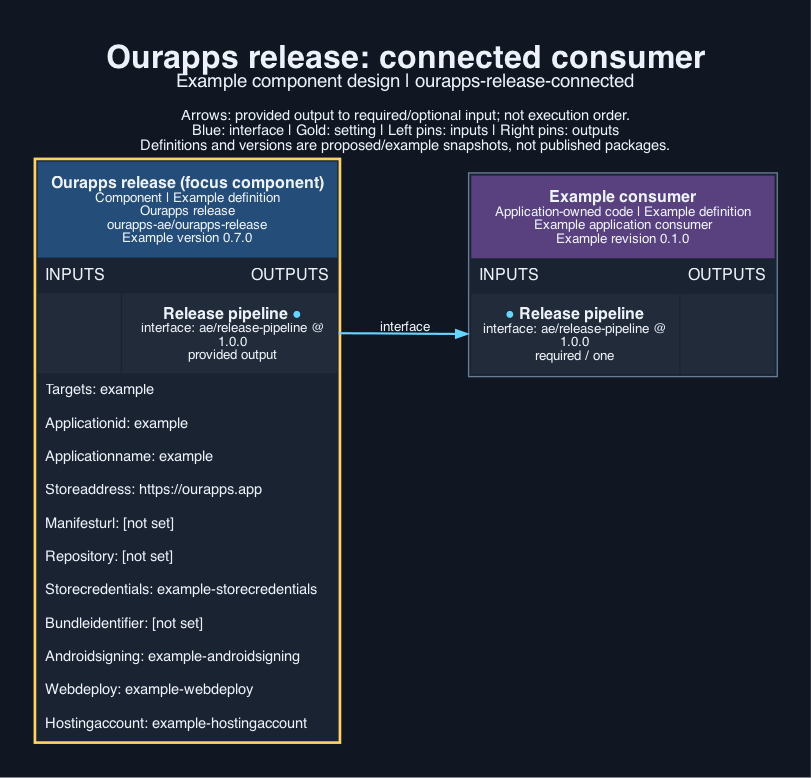
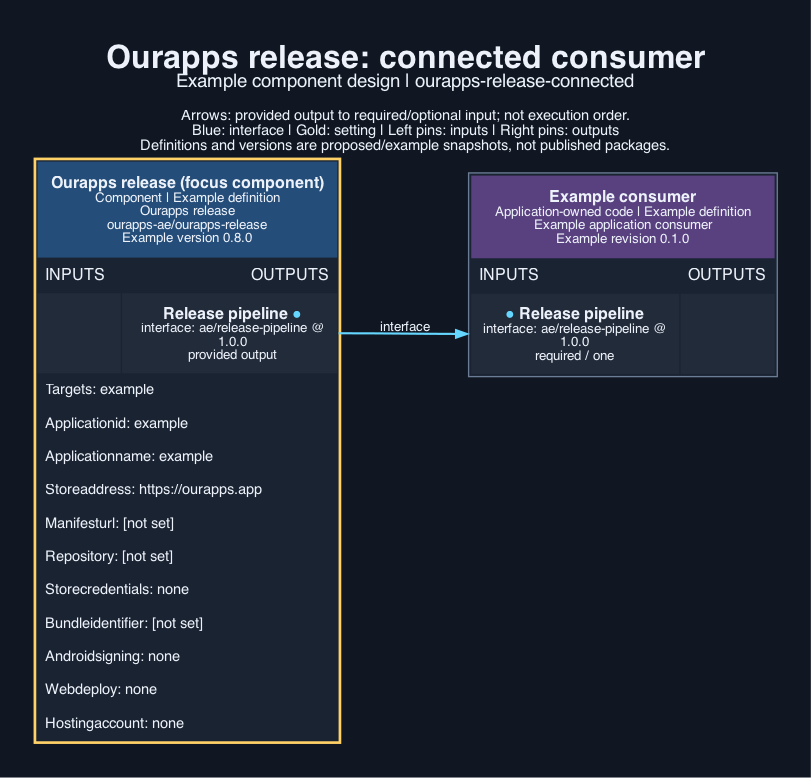
ourapps-release 0.8.0: aepm-update answers input and optional push token, apple-builds on xcode-27, local servers stopped after checks

Changed region(s): [[0.1541, 0.8329, 0.3699, 0.8946], [0.185, 0.7404, 0.4007, 0.7712], [0.185, 0.9254, 0.3699, 0.9563]]

diff --git a/tests/release.test.ts b/tests/release.test.ts
@@ -324,6 +324,7 @@ test("with a server folder ci-web plays the application's browser check against 
   assert.match(web, /VITE_SERVER=http:\/\/127\.0\.0\.1:8788 npx vite build/);
   assert.match(web, /if: hashFiles\('web\/test\/browser\.mjs'\) != ''/);
   assert.match(web, /node test\/browser\.mjs/);
+  assert.match(web, /lsof -t -sTCP:LISTEN -i tcp:8788 -i tcp:5173/);
   assert.doesNotMatch(renderRelease(webOnly).files[".github/workflows/ci-web.yml"], /node test\/browser\.mjs|npm start/);
 });
 
@@ -343,6 +344,7 @@ test("apple-builds builds unsigned for each Apple target only, on a tag or by ha
   const apple = maintained(".github/workflows/apple-builds.yml");
   assert.match(apple, /tags: \["v\*"\]/);
   assert.match(apple, /xcode-version: "27"/);
+  assert.match(apple, /runs-on: xcode-27/);
   assert.match(apple, /-scheme "DemoApp" -destination 'generic\/platform=iOS Simulator'/);
   assert.match(apple, /variant=Mac Catalyst/);
   assert.match(apple, /-scheme "DemoAppTV" -destination 'generic\/platform=tvOS Simulator'/);
@@ -362,6 +364,9 @@ test("aepm-update proposes weekly and applies a merged proposal with the owner k
   assert.match(update, /AEPM_OWNER_KEY: \$\{\{ secrets\.AEPM_OWNER_KEY \}\}/);
   assert.match(update, /aepm_update\.py apply/);
   assert.match(update, /AEPM_FROM: "https:\/\/ourapps\.app"/);
+  assert.match(update, /token: \$\{\{ secrets\.AEPM_PUSH_TOKEN \|\| github\.token \}\}/);
+  assert.match(update, /--answers "\$ANSWERS"/);
+  assert.match(update, /BRANCH: \$\{\{ steps\.update\.outputs\.branch \}\}/);
   assert.ok(maintenance.notes.some((note) => note.includes("AEPM_OWNER_KEY")));
 });
 
@@ -373,7 +378,10 @@ test("rendered workflows pass actionlint when it is installed", () => {
   buildPipeline(directory, all, options);
   writeRelease(directory, renderMaintenance(all, options));
   const workflows = join(directory, ".github/workflows");
-  const lint = spawnSync("actionlint", ["-shellcheck=", "-pyflakes=", ...readdirSync(workflows).map((name) => join(workflows, name))], { encoding: "utf8" });
+  // xcode-27 is a GitHub-hosted image label that actionlint does not list.
+  const config = join(directory, "actionlint.yaml");
+  writeFileSync(config, "self-hosted-runner:\n  labels:\n    - xcode-27\n");
+  const lint = spawnSync("actionlint", ["-config-file", config, "-shellcheck=", "-pyflakes=", ...readdirSync(workflows).map((name) => join(workflows, name))], { encoding: "utf8" });
   assert.equal(lint.status, 0, lint.stdout + lint.stderr);
 });
 

diff --git a/implementation/server/render.ts b/implementation/server/render.ts
@@ -68,6 +68,8 @@ export interface ReleaseOptions {
   // The Xcode major version apple-builds.yml selects (default 27), the generated project (default <appleScheme>.xcodeproj),
   // the iPhone, iPad and Mac scheme (default: the product name without spaces or dashes) and the Apple TV scheme (default <appleScheme>TV).
   xcodeVersion?: string;
+  // The runner apple-builds.yml uses (default xcode-27, GitHub's Xcode 27 image).
+  appleBuildRunner?: string;
   appleProject?: string;
   appleScheme?: string;
   appleTvScheme?: string;
@@ -270,6 +272,8 @@ function render(settings: ReleaseSettings, options: ReleaseOptions): RenderResul
   for (const [name, value] of [["macosMinimum", options.macosMinimum ?? "14.0"], ["tvosMinimum", options.tvosMinimum ?? "17.0"]] as const) if (!VERSION.test(value)) throw new SettingsError(`${name} must be a version number`);
 
   const xcode = options.xcodeVersion ?? "27";
+  const appleBuildRunner = options.appleBuildRunner ?? "xcode-27";
+  if (!RUNNER.test(appleBuildRunner)) throw new SettingsError("appleBuildRunner must be a runner label");
   if (!VERSION.test(xcode)) throw new SettingsError("xcodeVersion must be a version number");
   const appleScheme = options.appleScheme ?? productName.replace(/[ -]/g, "");
   const appleTvScheme = options.appleTvScheme ?? appleScheme + "TV";
@@ -298,7 +302,7 @@ function render(settings: ReleaseSettings, options: ReleaseOptions): RenderResul
     cfToken: `${cloudflare}_API_TOKEN`, cfAccount: `${cloudflare}_ACCOUNT_ID`,
     signingPrefix: prefix, bundleId: resolved.bundleIdentifier ?? "", productName,
     webDir: o.web, androidDir: o.android, desktopDir: o.desktop, appleDir: o.apple, appleHelpers: o.appleHelpers, serverDir: server ?? "", fixturesDir: o.fixtures,
-    node, java, wrangler, macRunner, windowsRunner, xcode, appleProject, appleScheme, appleTvScheme, androidCheckArgs: androidCheck, icon: o.icon, screenshots: o.screenshots, ipadScreenshots: o.ipad, changelog: o.changelog,
+    node, java, wrangler, macRunner, windowsRunner, xcode, appleBuildRunner, appleProject, appleScheme, appleTvScheme, androidCheckArgs: androidCheck, icon: o.icon, screenshots: o.screenshots, ipadScreenshots: o.ipad, changelog: o.changelog,
     needs: ["version", ...built, ...(built.includes("ios") ? ["testflight"] : [])].join(", "),
     anyOn: built.map((target) => `needs.version.outputs.${target} == 'true'`).join(" || ") || "false",
     webUrlExpression: has("web") ? "${{ needs.web.outputs.url }}" : "",

diff --git a/implementation/server/scripts/aepm_update.py b/implementation/server/scripts/aepm_update.py
@@ -4,7 +4,8 @@
   python3 components/ourapps-release/server/scripts/aepm_update.py propose --aepm AEPM --work WORK
       Designs the newest recipe version with the answers and substitutions in .aepm/definition.json, proposes the update
       (aepm runs the packages' checks on the staged tree) and writes .aepm/update/definition.json and summary.md for review.
-      Writes nothing when the recipe is already at its newest version.
+      --answers JSON (an object) changes recorded answers for the proposal, so a design change can be proposed at the
+      installed version. Writes nothing when the version and the answers are both unchanged.
   python3 components/ourapps-release/server/scripts/aepm_update.py apply --aepm AEPM --work WORK --owner-key KEY
       Proposes .aepm/update/definition.json again, approves it with the owner's private key and applies it, then removes
       .aepm/update/.
@@ -14,6 +15,7 @@ policy trusts Level N's release and guardian keys (https://ourapps.app/policy/le
 a key made for the run), and the exact packages of the design for running their checks. Needs Python 3.12, Node and git.
 """
 import argparse
+import hashlib
 import json
 import os
 from pathlib import Path
@@ -95,13 +97,14 @@ def restore(root, work, owner):
     return store
 
 
-def design(root, work, store, definition, version):
-    """The definition of the recipe at version with the current answers and substitutions."""
-    write(work / "answers.json", definition.get("answers") or {})
+def design(root, work, store, definition, version, answers):
+    """The definition of the recipe at version with the given answers and the current substitutions."""
+    write(work / "answers.json", answers)
     recipe = definition["recipe"]["name"]
     substitutes = [f"{slot}={selection['component']}@{selection['version']}"
                    for slot, selection in sorted((definition.get("selections") or {}).items()) if selection.get("reason") == "substituted"]
-    aepm(["fetch", f"{recipe}@{version}", "--with-dependencies", "--store", str(store), "--from", STORE_ADDRESS], root)
+    if version != definition["recipe"]["version"]:
+        aepm(["fetch", f"{recipe}@{version}", "--with-dependencies", "--store", str(store), "--from", STORE_ADDRESS], root)
     command = ["design", f"{recipe}@{version}", "--store", str(store), "--answers", str(work / "answers.json"), "--out", str(work / "next.json")]
     for substitute in substitutes:
         command += ["--substitute", substitute]
@@ -134,19 +137,27 @@ def command_propose(arguments, root, work):
     current = read(RECORDS / "definition.json")
     name, installed = current["recipe"]["name"], current["recipe"]["version"]
     version = arguments.version or newest(name)
-    if version == installed:
+    recorded = current.get("answers") or {}
+    changes = json.loads(arguments.answers) if arguments.answers else {}
+    if not isinstance(changes, dict):
+        sys.exit("--answers must be a JSON object")
+    answers = {**recorded, **changes}
+    changed = sorted(key for key in answers if recorded.get(key) != answers[key])
+    if version == installed and not changed:
         output("version", "")
-        print(f"{name} {installed} is the newest version", file=sys.stderr)
+        print(f"{name} {installed} is the newest version and no answer changes", file=sys.stderr)
         return
     # Nothing is approved here, so a key made for this run stands in for the owner's.
     owner = [{"publicKey": disposable_key()}]
     store = restore(root, work, owner)
-    next_definition = design(root, work, store, current, version)
+    next_definition = design(root, work, store, current, version, answers)
     _, lock = propose(root, work, store, next_definition, owner)
     before = {entry["name"]: entry["version"] for entry in read(RECORDS / "lock.json")["packages"]}
     after = {entry["name"]: entry["version"] for entry in read(lock)["packages"]}
-    lines = [f"# {name} {installed} to {version}", "", "aepm staged the update and ran the packages' checks on it.", "",
-             "| Package | Installed | Proposed |", "|---|---|---|"]
+    lines = [f"# {name} {installed} to {version}", "", "aepm staged the update and ran the packages' checks on it.", ""]
+    if changed:
+        lines += ["Answers changed: " + ", ".join(f"`{key}` {json.dumps(recorded.get(key))} to {json.dumps(answers[key])}" for key in changed), ""]
+    lines += ["| Package | Installed | Proposed |", "|---|---|---|"]
     for package in sorted(set(before) | set(after)):
         if before.get(package) != after.get(package):
             lines.append(f"| {package} | {before.get(package, '-')} | {after.get(package, '-')} |")
@@ -155,11 +166,15 @@ def command_propose(arguments, root, work):
     shutil.copyfile(next_definition, UPDATE / "definition.json")
     (UPDATE / "summary.md").write_text("\n".join(lines) + "\n")
     output("version", version)
+    suffix = "-" + hashlib.sha256(json.dumps({key: answers[key] for key in changed}, sort_keys=True).encode()).hexdigest()[:8] if changed else ""
+    output("branch", f"aepm-update/{version}{suffix}")
 
 
 def command_apply(arguments, root, work):
     if not (UPDATE / "definition.json").is_file():
-        sys.exit("no .aepm/update/definition.json to apply")
+        output("version", "")
+        print("no .aepm/update/definition.json: nothing to apply", file=sys.stderr)
+        return
     owner = [{"publicKey": public_key(arguments.owner_key)}]
     next_definition = work / "next.json"
     shutil.copyfile(UPDATE / "definition.json", next_definition)
@@ -178,6 +193,7 @@ def main():
     parser.add_argument("--aepm", required=True, type=Path)
     parser.add_argument("--work", required=True, type=Path)
     parser.add_argument("--version", help="the recipe version to propose (default: the newest published)")
+    parser.add_argument("--answers", help="a JSON object of answer changes to propose (propose)")
     parser.add_argument("--owner-key", type=Path, help="the owner's private key (apply)")
     arguments = parser.parse_args()
     if not (RECORDS / "definition.json").is_file():

diff --git a/tests/test_release.py b/tests/test_release.py
@@ -199,6 +199,44 @@ class Read(Base):
         self.assertEqual(Store.seen, [])
 
 
+class Update(unittest.TestCase):
+    """aepm_update.py decisions that need no aepm, store or network."""
+
+    def run_update(self, *args):
+        with tempfile.TemporaryDirectory() as directory:
+            app = Path(directory) / "app"
+            (app / ".aepm").mkdir(parents=True)
+            (app / ".aepm/definition.json").write_text(json.dumps({"recipe": {"name": "acme/demo", "version": "1.2.0"}, "answers": {"video": True}}))
+            output = Path(directory) / "output"
+            result = subprocess.run([sys.executable, "-B", str(SCRIPTS / "aepm_update.py"), "propose", "--aepm", directory, "--work", str(Path(directory) / "work"), *args],
+                                    cwd=app, env={**os.environ, "GITHUB_OUTPUT": str(output)}, capture_output=True, text=True)
+            return result, (output.read_text() if output.exists() else ""), (app / ".aepm/update").exists()
+
+    def test_same_version_and_answers_propose_nothing(self):
+        result, output, written = self.run_update("--version", "1.2.0", "--answers", '{"video": true}')
+        self.assertEqual(result.returncode, 0, result.stderr)
+        self.assertEqual(output, "version=\n")
+        self.assertIn("no answer changes", result.stderr)
+        self.assertFalse(written)
+
+    def test_answers_must_be_an_object(self):
+        result, _, written = self.run_update("--version", "1.2.0", "--answers", "[1]")
+        self.assertNotEqual(result.returncode, 0)
+        self.assertIn("JSON object", result.stderr)
+        self.assertFalse(written)
+
+    def test_apply_without_a_proposal_does_nothing(self):
+        with tempfile.TemporaryDirectory() as directory:
+            app = Path(directory) / "app"
+            (app / ".aepm").mkdir(parents=True)
+            (app / ".aepm/definition.json").write_text("{}")
+            output = Path(directory) / "output"
+            result = subprocess.run([sys.executable, "-B", str(SCRIPTS / "aepm_update.py"), "apply", "--aepm", directory, "--work", str(Path(directory) / "work"), "--owner-key", "missing.pem"],
+                                    cwd=app, env={**os.environ, "GITHUB_OUTPUT": str(output)}, capture_output=True, text=True)
+            self.assertEqual(result.returncode, 0, result.stderr)
+            self.assertEqual(output.read_text(), "version=\n")
+
+
 class Merge(unittest.TestCase):
     NEW = {"version": "0.6.0", "install": {
         "pwa": "https://new.example/", "android": {"apk": "https://api.github.com/new/apk"},

diff --git a/CONTRACT.md b/CONTRACT.md
@@ -57,7 +57,7 @@ None.
 ## Integration
 At build time call `renderRelease(settings, options)` from `server/render.ts` and write the result with `writeRelease` into the application repository: `.github/workflows/*.yml`, `scripts/*` and `release/app.json`. The shipped Python scripts install under `components/ourapps-release/server/scripts/` and are what the workflows call. `options` names the application's directories (web, android, desktop, Apple), the Node and Java versions, runners, the icon, screenshots, changelog, extra manifest fields (for example `minPlayers`) and the signing prefix, which must equal the Android and Apple hosts' prefix. `result.notes` lists what the rendered files expect the repository to provide. The web build comes from web-host, the Android project from android-host, the Apple project from apple-host, the Windows package from windows-desktop and the server check from server-host; this component names them only through directories and environment variable prefixes. `examples/consumer.ts` renders a pipeline without a game. At install aepm renders `components/ourapps-release/server/release.json` from the settings (application id and name, targets, store address and the four reference names); in the application's release workflow `release_plan.py` reads it and gives the version, the targets to build and the repository secret name of each reference. aepm places only the recipe's own files outside `components/<name>/`, so a recipe that installs workflows at the application root ships them itself and has them call these scripts; `renderRelease` writes a set from the templates at build time instead.
 
-The check workflows can each be started by hand. With `serverDirectory`, `ci-web.yml` starts the server on the runner, builds the web client against it and runs the application's `test/browser.mjs` in headless Chrome when the web folder has one; with `androidCheck` too, `ci-android.yml` builds the debug app against the runner's server (`http://10.0.2.2:8788`), starts it in an Android 36 emulator (KVM) and runs `android_screen.py` until the given text is on screen. `renderMaintenance(settings, options)` renders two more workflows outside the release pipeline's files: `apple-builds.yml` (unsigned iOS Simulator, Mac Catalyst and tvOS Simulator builds by Apple target, on a version tag or by hand; options `xcodeVersion`, `appleProject`, `appleScheme`, `appleTvScheme`) and `aepm-update.yml`, which weekly runs `aepm_update.py propose` (the newest recipe version designed with the answers and substitutions in `.aepm/definition.json`, proposed with `--trusted --allow-network`, opened as a pull request carrying `.aepm/update/definition.json` and `summary.md`) and, when that pull request is merged, `aepm_update.py apply` (proposed again, approved with the owner's private key from the `AEPM_OWNER_KEY` repository secret, applied and committed to main). Pull requests need the repository setting that lets GitHub Actions create them.
+The check workflows can each be started by hand. With `serverDirectory`, `ci-web.yml` starts the server on the runner, builds the web client against it and runs the application's `test/browser.mjs` in headless Chrome when the web folder has one; with `androidCheck` too, `ci-android.yml` builds the debug app against the runner's server (`http://10.0.2.2:8788`), starts it in an Android 36 emulator (KVM) and runs `android_screen.py` until the given text is on screen. `renderMaintenance(settings, options)` renders two more workflows outside the release pipeline's files: `apple-builds.yml` (unsigned iOS Simulator, Mac Catalyst and tvOS Simulator builds by Apple target on GitHub's Xcode 27 image, on a version tag or by hand; options `appleBuildRunner` (default `xcode-27`; the `macos-26` image carries Xcode 26 only), `xcodeVersion`, `appleProject`, `appleScheme`, `appleTvScheme`) and `aepm-update.yml`, which weekly, or by hand with optional `version` and `answers` (a JSON object of answer changes) inputs, runs `aepm_update.py propose` (the newest or given recipe version designed with the answers and substitutions in `.aepm/definition.json` and the given changes; nothing when neither the version nor an answer changes; proposed with `--trusted --allow-network`, opened as a pull request carrying `.aepm/update/definition.json` and `summary.md`) and, when that pull request is merged, `aepm_update.py apply` (proposed again, approved with the owner's private key from the `AEPM_OWNER_KEY` repository secret, applied and committed to main). Pull requests need the repository setting that lets GitHub Actions create them, or the optional `AEPM_PUSH_TOKEN` secret (a fine-grained token with Contents, Pull requests and Workflows write), which then pushes and opens them; GitHub refuses a push with the workflow's own token that changes `.github/workflows/`, so an update that changes a workflow is committed only with `AEPM_PUSH_TOKEN`, and without it the apply job stops naming those files.
 
 ## Visual definition and connected examples
 `visual/definition.json` maps its ports to the provided and required interfaces. `visual/examples/connected.json` connects the component to an illustrative application consumer. Both image formats and a text description are in `visual/output/`.

diff --git a/INSTRUCTIONS.md b/INSTRUCTIONS.md
@@ -3,7 +3,7 @@
 ## For the agent
 Select `ourapps-ae/ourapps-release` for every recipe that has a client target; set `targets` from the targets answer (map the recipe's `ios` to `ios`, `macos` to `macos`, and so on). Set `storeCredentials` only when the developer has a store account (the recipe's updates question supplies it); leave it `none` otherwise and the pipeline skips every store step. Give each reference setting as a reference name (for example `<application>-store`), never a value, and tell the developer which repository secrets that creates. Set `repository` to `https://github.com/<owner>/<name>` and `manifestUrl` to `https://api.github.com/repos/<owner>/<name>/releases/latest` when the repository is known. Use the same signing prefix as android-host and apple-host.
 
-- Select package `ourapps-ae/ourapps-release` version `0.7.0`.
+- Select package `ourapps-ae/ourapps-release` version `0.8.0`.
 - Settings to configure:
   - `targets` (string, label; required)
   - `applicationId` (string, slug; required)
@@ -20,7 +20,7 @@ Select `ourapps-ae/ourapps-release` for every recipe that has a client target; s
 - References are given by name only, never by value.
 
 ## For the developer
-Create the repository secrets named by the references (`<NAME>_APP_ID` and `<NAME>_BUILD_TOKEN` from the store, only when `storeCredentials` is set; for Android a keystore as base64 plus its password, alias and key password; for Cloudflare web hosting an API token and account id, on an account separate from the store's). Provide `CHANGELOG.md` with a section for each released version, the icon and screenshots, and the Apple and desktop build scripts named in `result.notes`. Run the render step (`renderRelease`, and `renderMaintenance` for the Apple builds and aepm update workflows), commit the generated files, then push a `v*` tag. For aepm updates, set the `AEPM_OWNER_KEY` repository secret to the owner's private key (`gh secret set AEPM_OWNER_KEY --repo <owner>/<name> < owner.pem`) and allow GitHub Actions to create pull requests (repository Settings, Actions, General). To check, run the commands below.
+Create the repository secrets named by the references (`<NAME>_APP_ID` and `<NAME>_BUILD_TOKEN` from the store, only when `storeCredentials` is set; for Android a keystore as base64 plus its password, alias and key password; for Cloudflare web hosting an API token and account id, on an account separate from the store's). Provide `CHANGELOG.md` with a section for each released version, the icon and screenshots, and the Apple and desktop build scripts named in `result.notes`. Run the render step (`renderRelease`, and `renderMaintenance` for the Apple builds and aepm update workflows), commit the generated files, then push a `v*` tag. For aepm updates, set the `AEPM_OWNER_KEY` repository secret to the owner's private key (`gh secret set AEPM_OWNER_KEY --repo <owner>/<name> < owner.pem`) and allow GitHub Actions to create pull requests (repository Settings, Actions, General), or set `AEPM_PUSH_TOKEN` to a fine-grained token for the repository with Contents, Pull requests and Workflows write; updates that change `.github/workflows/` are committed only with that token. To check, run the commands below.
 
 ## How to check
 From the component directory:

diff --git a/visual/output/description.md b/visual/output/description.md
@@ -1,3 +1,3 @@
 # Ourapps release
 
-The ourapps-release component at version 0.7.0 provides ae/release-pipeline version 1.0.0 to an illustrative application consumer. The single arrow runs from the named output to its required input. Setting values shown are placeholders and secrets appear only as references.
+The ourapps-release component at version 0.8.0 provides ae/release-pipeline version 1.0.0 to an illustrative application consumer. The single arrow runs from the named output to its required input. Setting values shown are placeholders and secrets appear only as references.
